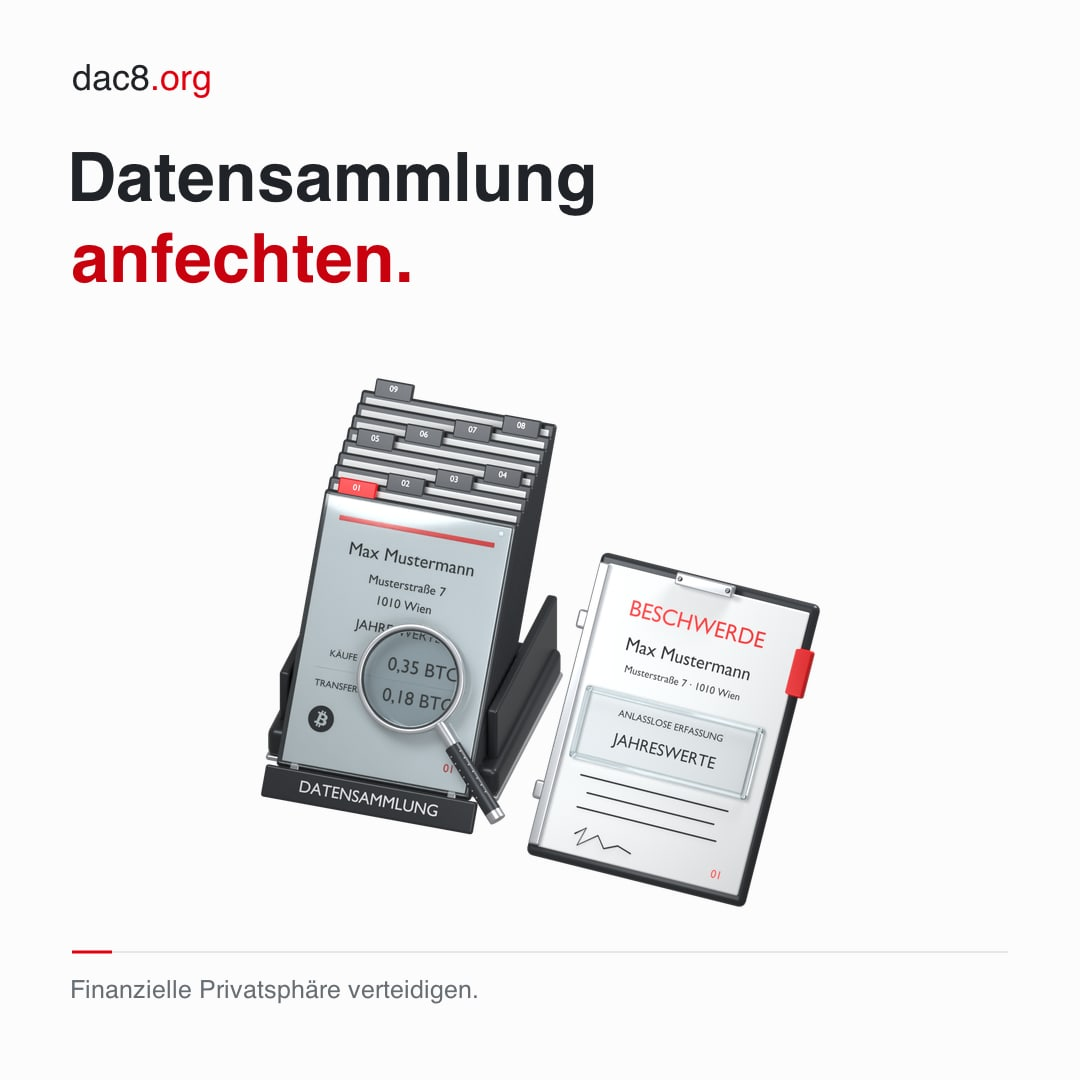
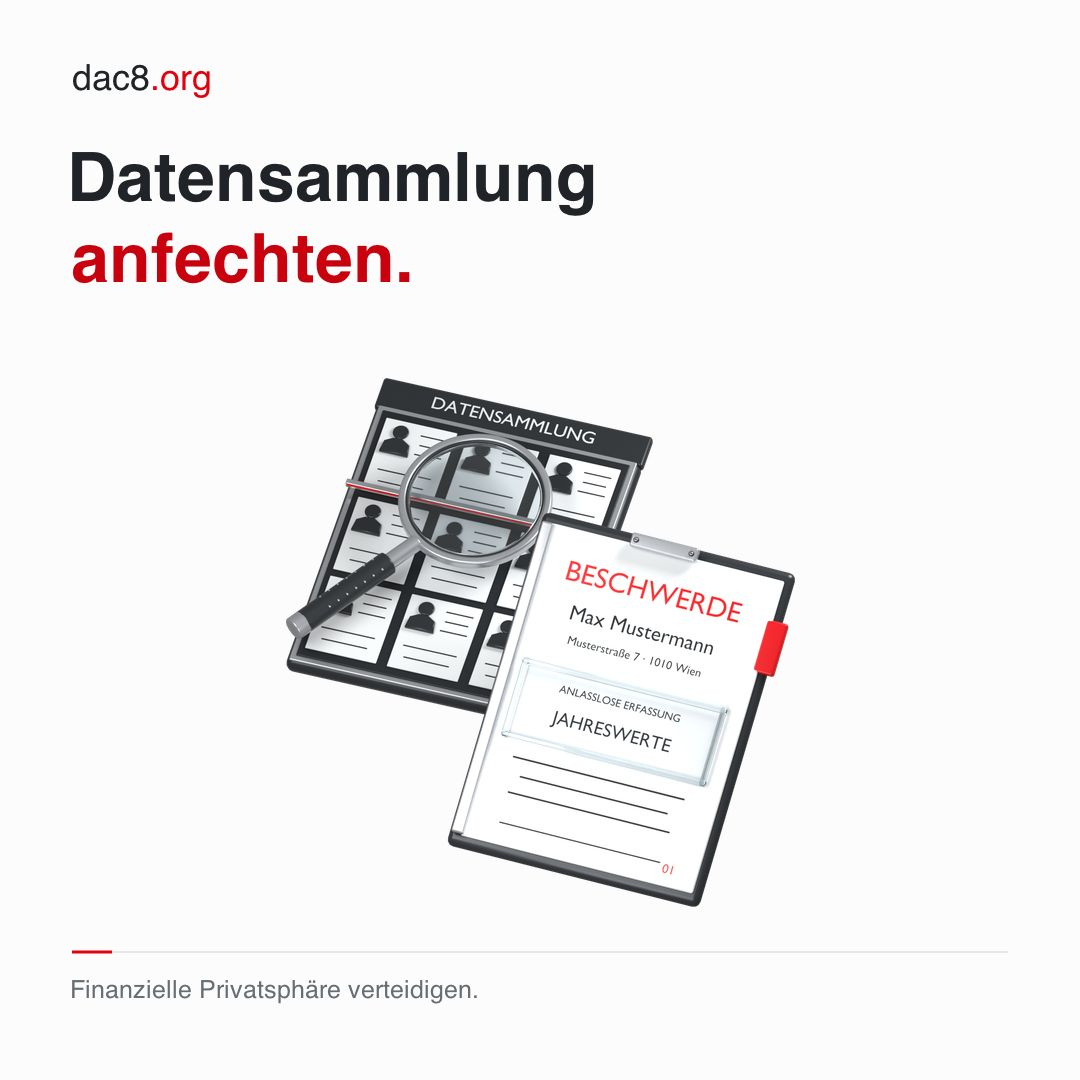
Carry the new risk story onto the participation page
The share kit still followed the old home page: no graphics for the
combined profile or the attack at home, and the complaint graphic showed
the single file the hero no longer uses. People share these pictures on
their own, so they should tell the same story as the site.

Adds the lab's finished four-sources and home-target graphics as scenes
9 and 10, placed in home page order but numbered after the first eight so
existing share URLs keep working, and swaps scene 7 to the collection
review motif. The letter to MPs now names what a broad audience fears:
data stores that keep leaking and organised gangs that pick victims from
them. The share section intro says the same in fewer words.

Changed region(s): [[0.2444, 0.3361, 0.7639, 0.8556]]

diff --git a/src/data/letter.ts b/src/data/letter.ts
@@ -30,7 +30,7 @@ const text = {
     intro:
       "seit 1. Jänner 2026 gilt in Österreich das Krypto-Meldepflichtgesetz, das die EU-Richtlinie DAC8 umsetzt. Krypto-Anbieter melden einmal im Jahr Identität und Jahreswerte an das Finanzamt: je Kryptowert und Vorgangsart Wert, Stückzahl und meist die Anzahl der Vorgänge. Das österreichische Gesetz geht dabei über die Richtlinie hinaus. Nach § 20 Abs. 1 Krypto-MPfG müssen Anbieter die Meldedaten für alle Kunden aufbereiten, auch für jene, die am Ende gar nicht gemeldet werden.",
     stance:
-      "Ich lehne diese anlasslose Erfassung ab. Wer Informationen über mein Geld hat, kann Rückschlüsse auf mein Leben ziehen. Gespeicherte Verbindungen zwischen Identität und Finanzdaten sind ein lohnendes Ziel für Angreifer und können für Betrug, Erpressung oder die Auswahl von Opfern genutzt werden.",
+      "Ich lehne diese anlasslose Erfassung ab. Wer Informationen über mein Geld hat, kann Rückschlüsse auf mein Leben ziehen. Solche Datenbestände gehen immer wieder verloren, bei Börsen ebenso wie bei Finanzverwaltungen. Organisierte Banden nutzen sie, um Opfer für Betrug, Erpressung und Überfälle auszuwählen.",
     ask: "Ich ersuche Sie, sich im Nationalrat für folgende Punkte einzusetzen:",
     demands: [
       "Erst klären, wessen Daten gemeldet werden müssen. Keine vorsorgliche Aufbereitung für alle Kunden.",
@@ -56,7 +56,7 @@ const text = {
     intro:
       "Since 1 January 2026, Austria’s Crypto-Asset Reporting Obligations Act (Krypto-MPfG), which implements the EU directive DAC8, has been in force. Once a year, crypto-asset providers report identities and annual aggregates to the tax authority: for each crypto-asset and transaction type, the value, units and, for most categories, the number of transactions. Austrian law goes beyond the directive. Under Section 20(1) Krypto-MPfG, providers must prepare reporting data for all customers, including those who will not ultimately be reported.",
     stance:
-      "I oppose this collection without any specific suspicion. Information about my money can reveal details about my life. Stored links between identities and financial data are a valuable target for attackers and can be used for fraud, extortion or selecting victims.",
+      "I oppose this collection without any specific suspicion. Information about my money can reveal details about my life. Such data stores are lost again and again, at exchanges as well as at tax administrations. Organised gangs use them to select victims for fraud, extortion and robbery.",
     ask: "I ask you to support the following points in the National Council:",
     demands: [
       "Determine whose data must be reported first. No precautionary preparation of data for all customers.",

diff --git a/src/data/share.ts b/src/data/share.ts
@@ -69,6 +69,18 @@ export const shareScenes: {
     },
   },
   {
+    // Numbered after the first eight so existing share URLs stay the same.
+    id: "scene-09-profile",
+    title: {
+      de: "Vier Datenquellen. Ein Personenprofil.",
+      en: "Four data sources. One personal profile.",
+    },
+    text: {
+      de: "Ein öffentliches Profil zeigt dein Gesicht, ein Leck deine Wallet-Adresse, ein gehackter Steuerdienst deine Bestände. Zusammengeführt ergibt das, wer du bist, wo du wohnst und was du vermutlich besitzt.",
+      en: "A public profile shows your face, a leak your wallet address, a hacked tax service your holdings. Put together, they reveal who you are, where you live and what you probably own.",
+    },
+  },
+  {
     id: "scene-06-risk",
     title: {
       de: "Sortierbar nach Vermögen. Gefährlich in falschen Händen.",
@@ -77,6 +89,17 @@ export const shareScenes: {
     text: {
       de: "In Österreich verschicken Betrüger massenhaft gefälschte FinanzOnline-Nachrichten, um herauszufinden, wer Kryptowerte besitzt. Ein Leck beim Anbieter würde ihnen diese Liste fertig liefern.",
       en: "In Austria, fraudsters send fake tax-office messages in bulk to find out who holds crypto. A breach at a provider would hand them that list ready-made.",
+    },
+  },
+  {
+    id: "scene-10-target",
+    title: {
+      de: "Dein Profil. Deine Adresse. Ein Angriffsziel.",
+      en: "Your profile. Your address. A target.",
+    },
+    text: {
+      de: "Dahinter steht organisierte Kriminalität. In den USA hackte eine Bande Datenbanken, suchte Menschen mit vermuteten Kryptobeständen heraus und brach bei ihnen ein.",
+      en: "This is organised crime. In the United States, a gang hacked databases, picked out people believed to hold crypto and broke into their homes.",
     },
   },
   {
